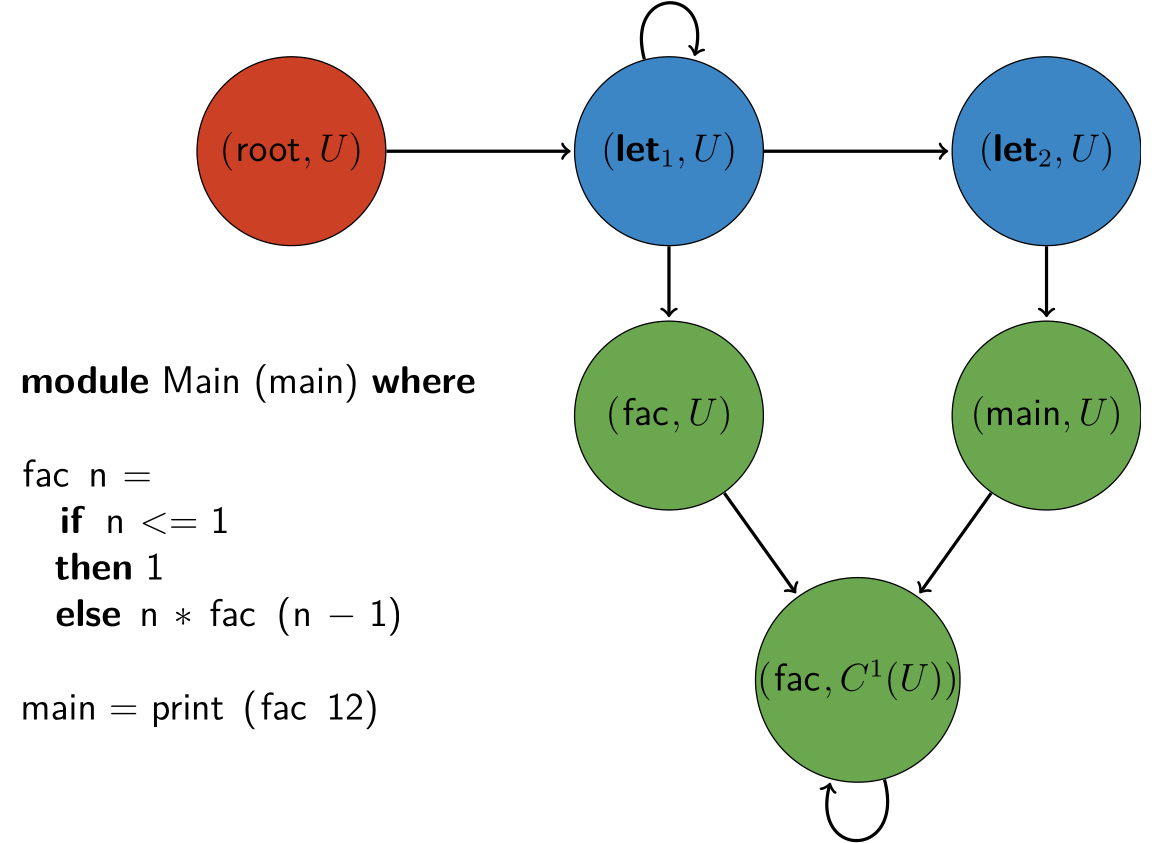
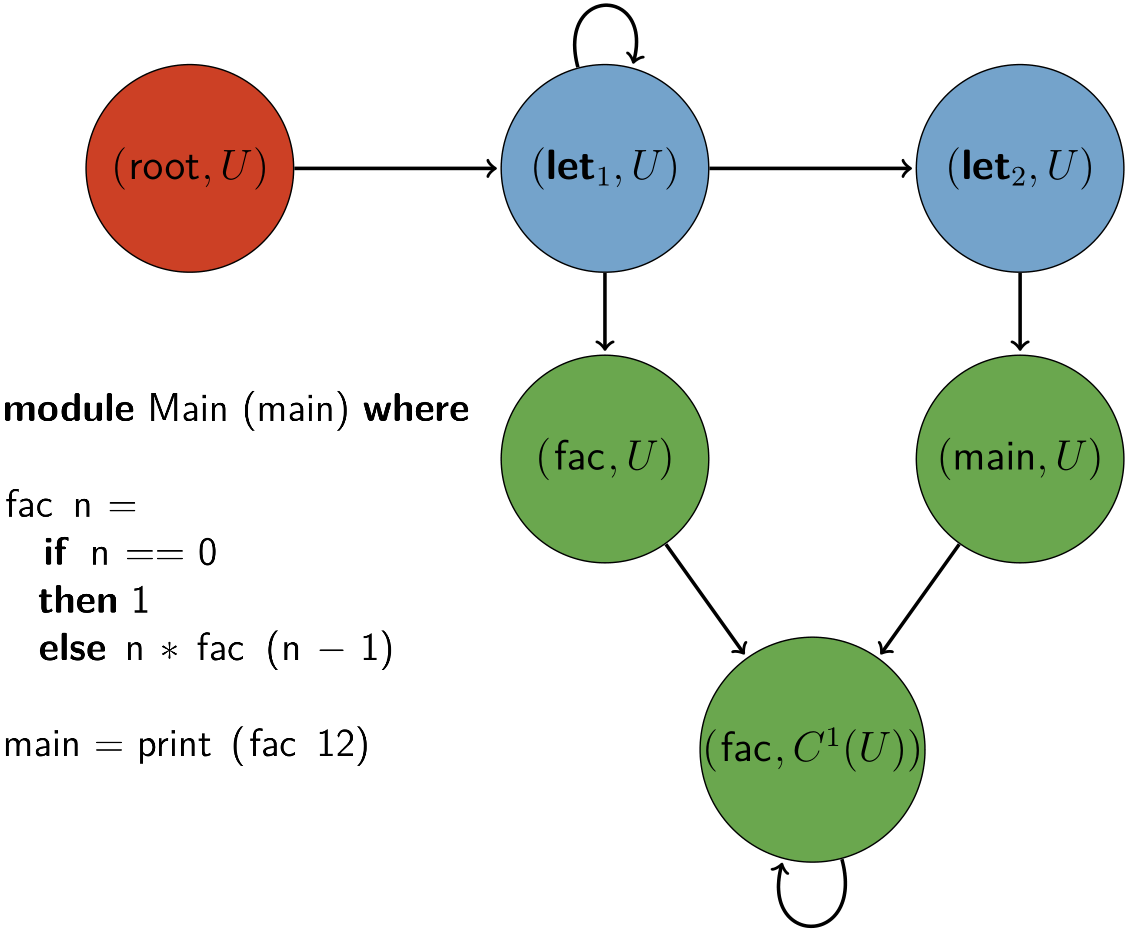
Changed myblue to something less saturated

diff --git a/thesis/fig/titlefig.tex b/thesis/fig/titlefig.tex
@@ -1,0 +1,25 @@
+\begin{figure}
+  \centering
+  \begin{tikzpicture}[shorten >=1pt,x=10em,y=7em,auto]
+      \tikzset{every loop/.style={looseness=4}}
+      \tikzstyle{n}=[draw,shape=circle,minimum size=5em,inner sep=0pt]
+      \tikzstyle{root}=[n,fill=myred]
+      \tikzstyle{up}=[n,fill=myblue]
+      \tikzstyle{down}=[n,fill=mygreen]
+      \node (root) at (0,2) [root] {$(\hsinl{root}, U)$};
+      \node (let1) at (1,2) [up] {$(\keyword{let}_1, U)$};
+      \node (let2) at (2,2) [up] {$(\keyword{let}_2, U)$};
+      \node (main) at (2,1) [down] {$(\hsinl{main}, U)$};
+      \node (fac1) at (1.5,0) [down] {$(\hsinl{fac}, C^1(U))$};
+      \node (facn) at (1,1) [down] {$(\hsinl{fac}, U)$};
+      \path[->,line width=1pt] 
+        (root) edge node {} (let1)
+        (let1) edge [loop above] node {} ()
+               edge node {} (let2)
+               edge node {} (facn)
+        (let2) edge node {} (main)
+        (main) edge node {} (fac1)
+        (facn) edge node {} (fac1)
+        (fac1) edge [loop below] node {} ();
+  \end{tikzpicture}
+\end{figure}

diff --git a/thesis/impl.tex b/thesis/impl.tex
@@ -448,7 +448,7 @@ This is best understood by a simple example which already exhibits quite a compl
     module Main (main) where
 
     fac n = 
-      if n <= 1 
+      if n == 0 
       then 1 
       else n * fac (n - 1)
 
@@ -459,7 +459,7 @@ This is best understood by a simple example which already exhibits quite a compl
 
   \begin{haskellcode}
     let fac n =
-          if n <= 1
+          if n == 0
           then 1
           else n * fac (n - 1)
     in let main = print (fac 12)
@@ -467,6 +467,8 @@ This is best understood by a simple example which already exhibits quite a compl
   \end{haskellcode}
 
   \Cref{fig:framework} depicts the resulting data-flow framework, or rather the finite part reachable from node $(\hsinl{root}, U)$ (again, \hsinl{root} represents the usage transformer denoting the module expression). 
+
+  %\input{fig/titlefig.tex}
 
   \newcommand{\fw}[1]{\overrightarrow{#1}}
   \newcommand{\bw}[1]{\overleftarrow{#1}}
